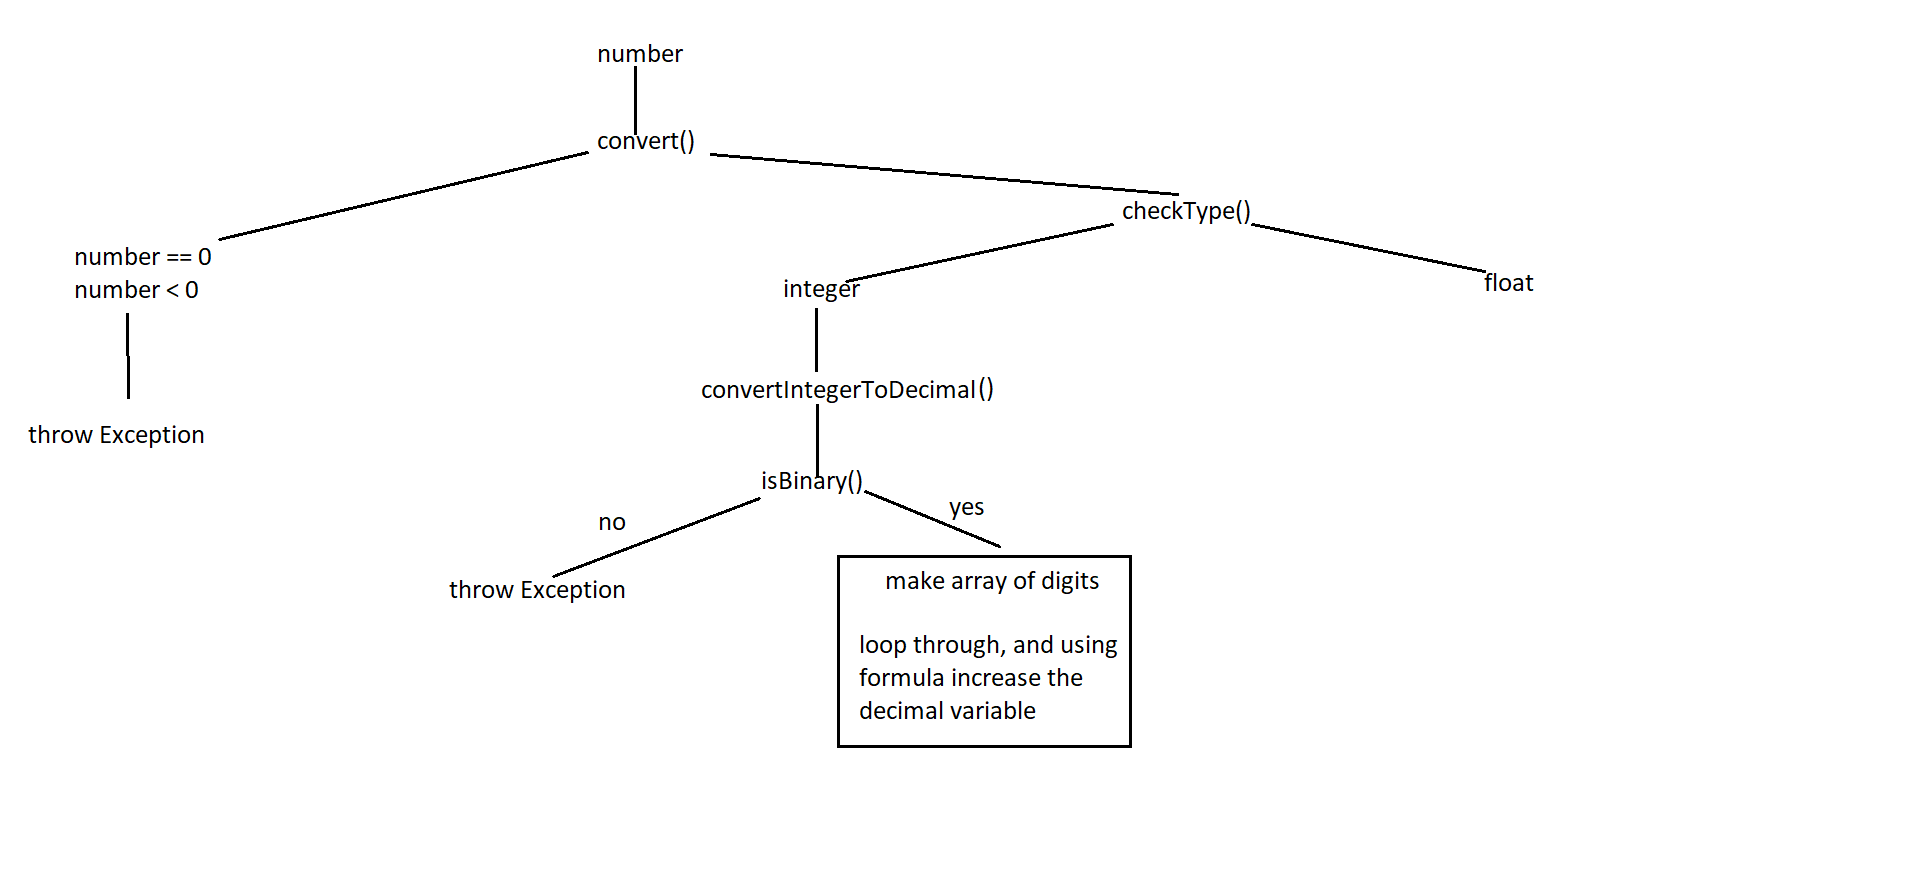
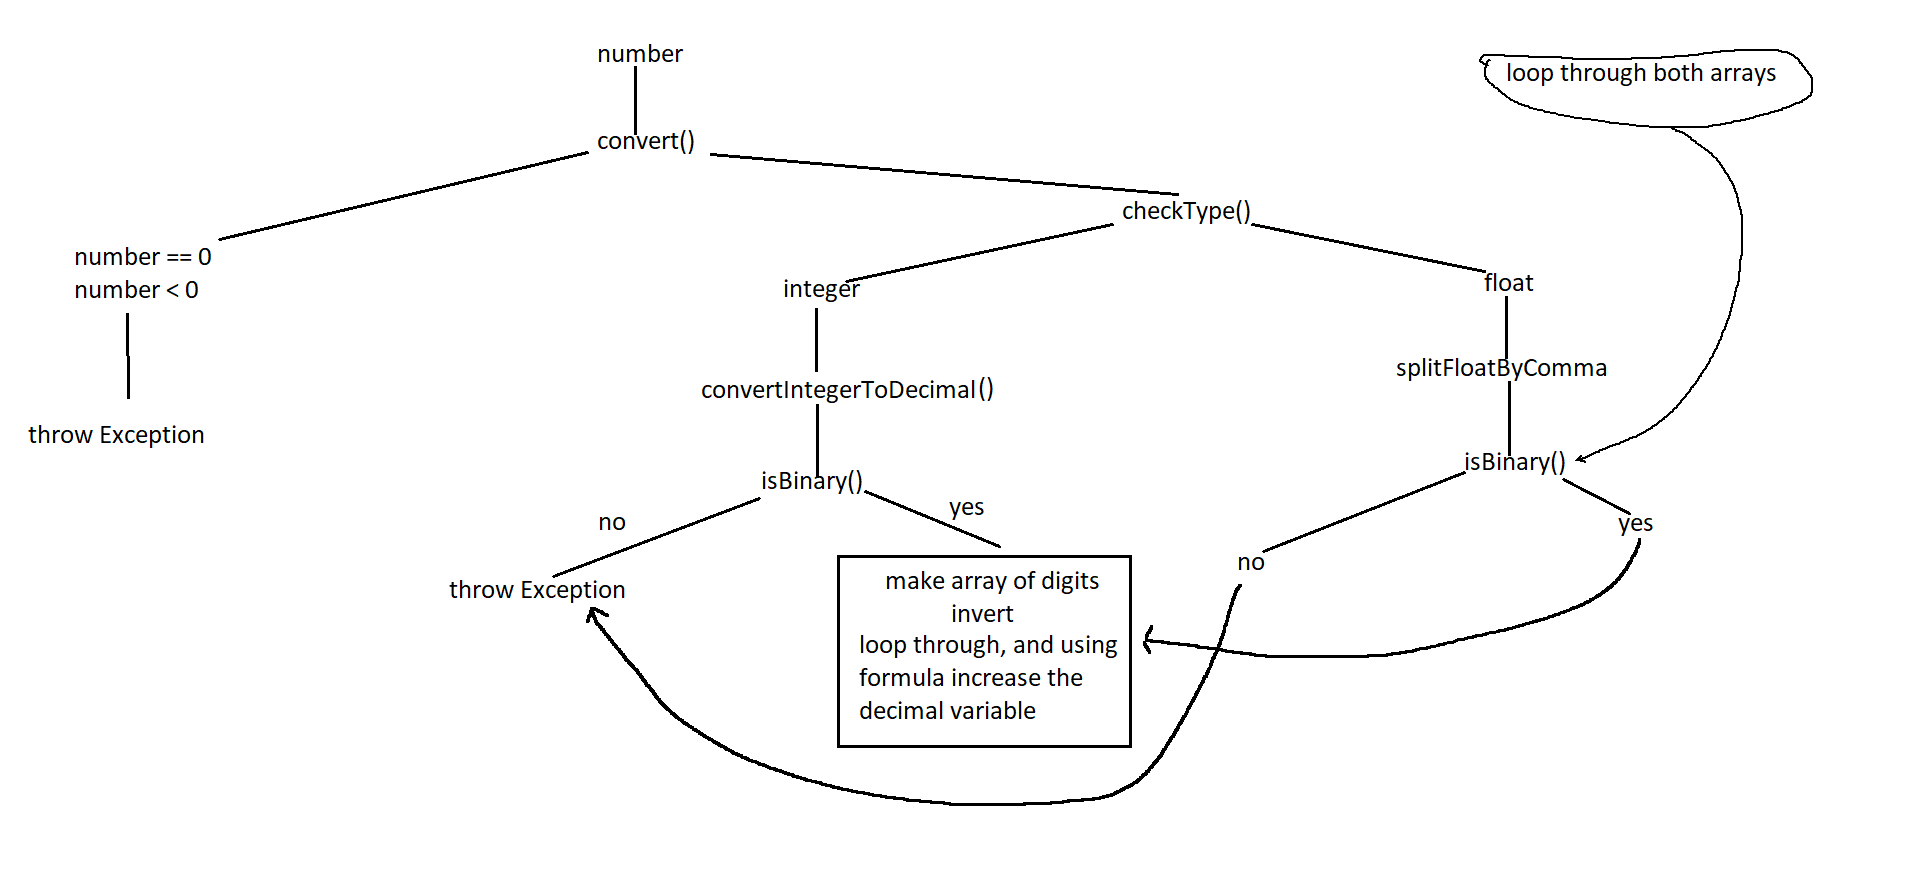
Added first layouts of validation. Also added converting for floats. This doesn't work. At first place, conversion for floats sometimes brokes, and now that doesn't work at all!

diff --git a/src/main/java/BinaryConverterImpl.java b/src/main/java/BinaryConverterImpl.java
@@ -1,6 +1,6 @@
-import java.util.Arrays;
 import java.util.Objects;
 
+// TODO rewrite using Integer instead of int. Replace validation to specific class!!!! Separate class for integers from float!!!
 class BinaryConverterImpl {
     private final float binaryNumber;
     private float decimal;
@@ -17,25 +17,31 @@ class BinaryConverterImpl {
     }
 
     private void checkType() {
-        if ((int) binaryNumber == binaryNumber)
+        StringBuilder stringBuilderBinaryNumber = new StringBuilder(String.valueOf(binaryNumber));
+        boolean isFloat = false;
+
+        for (int index = 0; index < stringBuilderBinaryNumber.length(); index++) {
+            if (stringBuilderBinaryNumber.charAt(index) == '.') isFloat = true;
+        }
+
+        if (!isFloat)
             convertIntegerToDecimal();
+        else
+            convertFloatToDecimal();
     }
 
     private void convertIntegerToDecimal() {
-        if (!isIntegerBinary())
+        if (!isIntegerBinary((int) binaryNumber))
             throw new IllegalArgumentException("Transmitted value is not a binary.");
 
-        IntegerArrayConverter integerArrayConverter = new IntegerArrayConverter();
+        ArrayConvertor integerArrayConverter = new ArrayConvertor();
         int[] digits = integerArrayConverter.getArrayOfDigits((int) binaryNumber);
         int[] invertedDigits = integerArrayConverter.getInvertedArrayOfDigits(digits);
 
-        // TODO rewrite using recursion
         formula(invertedDigits);
     }
 
-    public boolean isIntegerBinary() {
-        int number = (int) binaryNumber;
-
+    public boolean isIntegerBinary(int number) {
         while (number != 0) {
             if (number % 10 > 1)
                 return false;
@@ -49,6 +55,32 @@ class BinaryConverterImpl {
     private void formula(int[] digits) {
         for (int index = 0; index < digits.length; index++)
             decimal += Float.parseFloat(String.valueOf(digits[index] * Math.pow(2, index)));
+    }
+
+    private void formulaForFractionDigits(int[] fractionDigits) {
+        for (int index = 0; index < fractionDigits.length; index++) {
+            int fractionIndex = index + 1;
+            // 2 / (2 ^ fractionIndex)) / 2
+            double result = 2 / Math.pow(2, fractionIndex) / 2;
+
+            decimal += Float.parseFloat(String.valueOf(result));
+        }
+    }
+
+    private void convertFloatToDecimal() {
+        ArrayConvertor arrayConvertor = new ArrayConvertor();
+
+        String[] stringDividedFloatByComma = arrayConvertor.splitByRegex(binaryNumber, "\\.");
+        int[] dividedFloatByComma = arrayConvertor.convertElementsToIntegers(stringDividedFloatByComma);
+
+        int integerPart = dividedFloatByComma[0];
+        int fractionPart = dividedFloatByComma[1];
+
+        if (!isIntegerBinary(integerPart) && !isIntegerBinary(fractionPart))
+            throw new IllegalArgumentException("Transmitted value is not a binary.");
+
+        formula(arrayConvertor.getArrayOfDigits(integerPart));
+        formulaForFractionDigits(arrayConvertor.getArrayOfDigits(fractionPart));
     }
 
     public float getBinaryNumber() {

diff --git a/src/main/java/ArrayConvertor.java b/src/main/java/ArrayConvertor.java
@@ -1,9 +1,5 @@
-import java.util.Arrays;
-import java.util.Collections;
-
-// TODO rewrite class according to Uncle's Bob commandments
-public class IntegerArrayConverter {
-    public IntegerArrayConverter() {}
+public class ArrayConvertor {
+    public ArrayConvertor() {}
 
     public int[] getArrayOfDigits(int number) {
         StringBuilder stringBuilderOfNumber = new StringBuilder(String.valueOf(number));
@@ -13,6 +9,21 @@ public class IntegerArrayConverter {
             arrayOfDigits[index] = Integer.parseInt(String.valueOf(stringBuilderOfNumber.charAt(index)));
 
         return arrayOfDigits;
+    }
+
+    public String[] splitByRegex(float number, String regex) {
+        String stringNumber = String.valueOf(number);
+
+        return stringNumber.split(regex);
+    }
+
+    public int[] convertElementsToIntegers(String[] array) {
+        int[] intArray = new int[array.length];
+
+        for (int index = 0; index < array.length; index++)
+            intArray[index] = Integer.parseInt(array[index]);
+
+        return intArray;
     }
 
     public int[] getInvertedArrayOfDigits(int[] array) {

diff --git a/src/main/java/Main.java b/src/main/java/Main.java
@@ -1,15 +1,26 @@
 import java.util.Arrays;
+import java.util.Scanner;
 
 public class Main {
+    private static float binaryNumber;
 
     public static void main(String[] args) {
-        float binaryNumber = 101F;
-        int binary = 1011011;
+        interviewUser();
 
-        BinaryConverterImpl binaryConverter = new BinaryConverterImpl(binary);
+        if (!(binaryNumber > 0))
+            throw new IllegalArgumentException("Number should be bigger that 0!");
+
+        BinaryConverterImpl binaryConverter = new BinaryConverterImpl(binaryNumber);
         binaryConverter.convert();
 
         System.out.println(binaryConverter.getDecimal());
+    }
+
+    private static void interviewUser() {
+        Scanner scanner = new Scanner(System.in);
+
+        System.out.print("Binary number: ");
+        binaryNumber = scanner.nextFloat();
     }
 
 }
